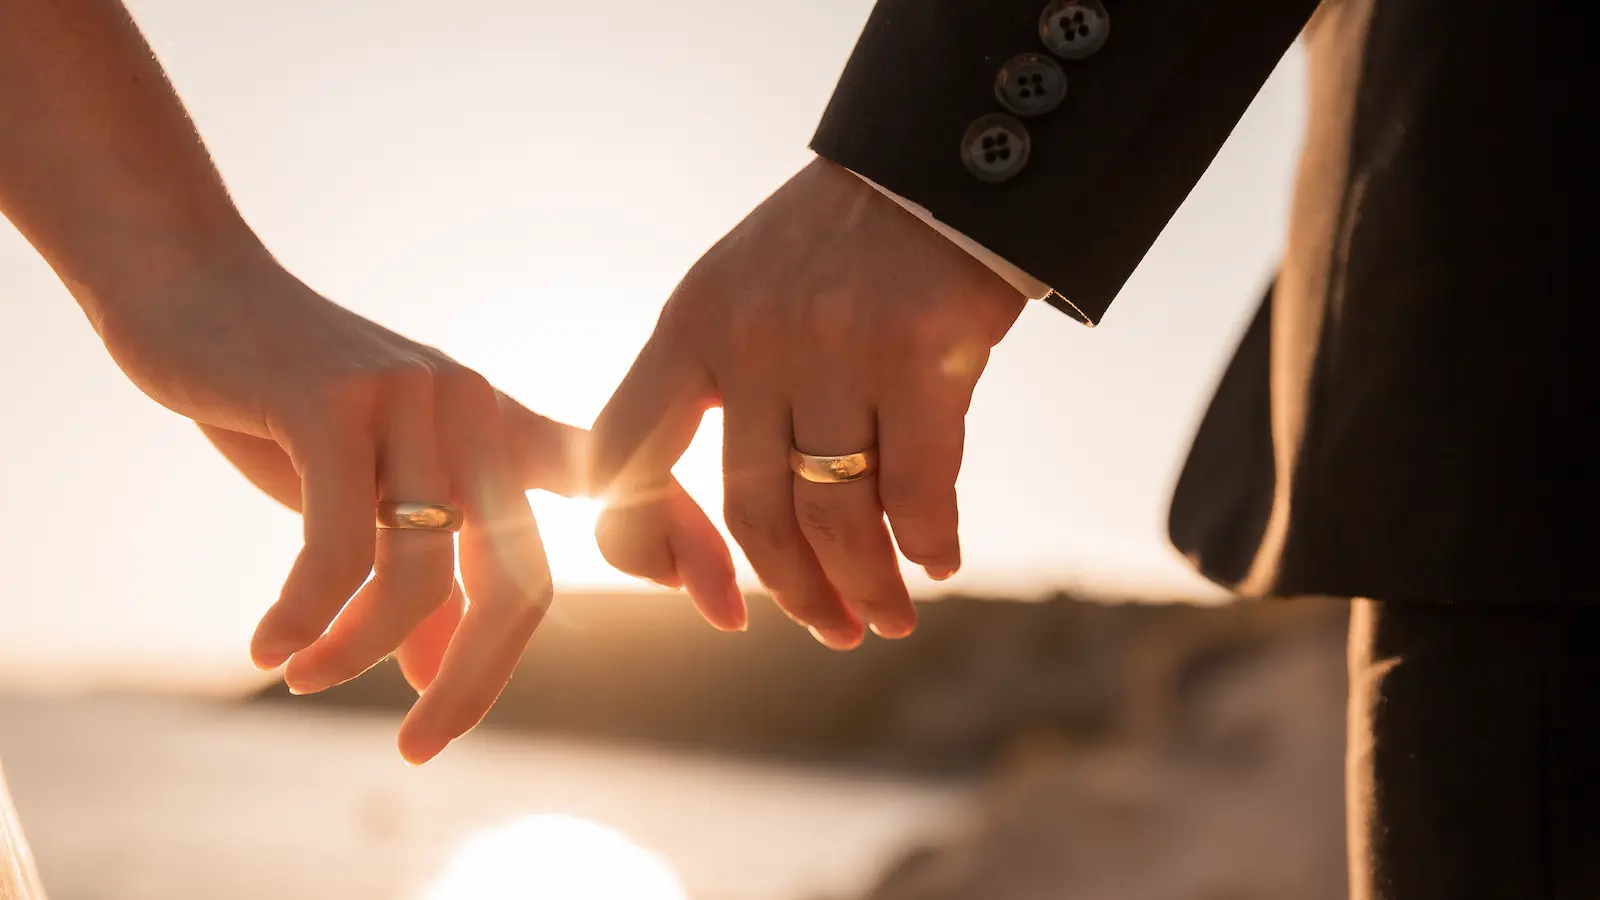
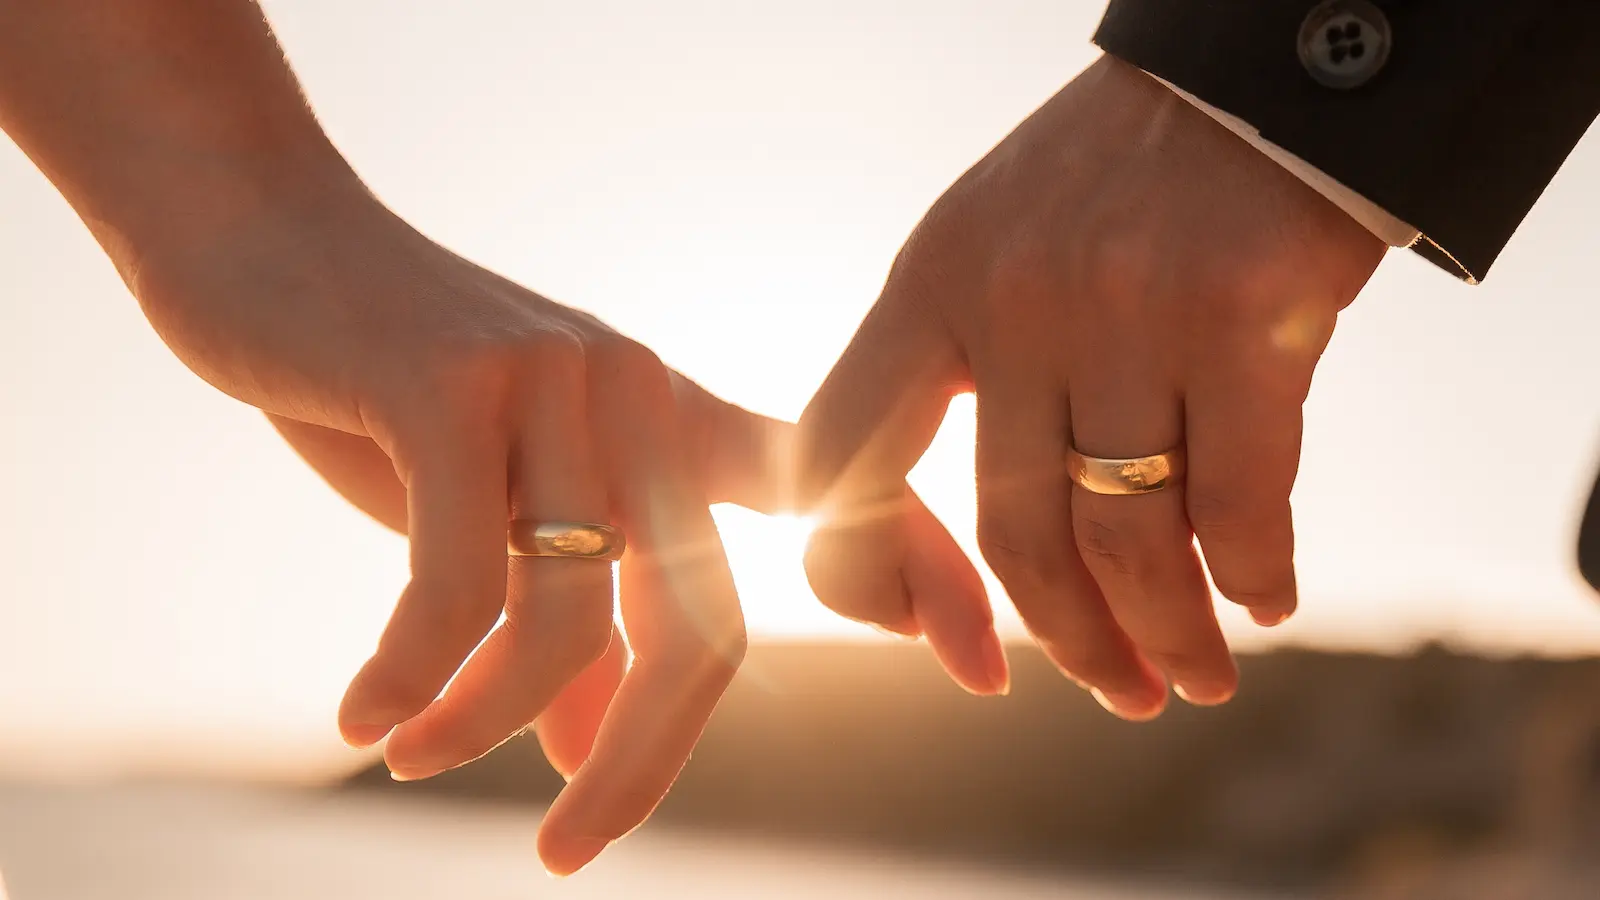
updates: font size, background image, content image

diff --git a/resources/views/v2/meetings-events.blade.php b/resources/views/v2/meetings-events.blade.php
@@ -31,7 +31,7 @@
                 <div class="row mb-3">
                     <div class="col-12">
                         <h1 class="special-heading fs-1 fw-bold text-center pb-2">{!! $headerTitle !!}</h1>
-                        <h2 class="special-heading fs-5 fw-semibold text-center py-3">Elevate Your Corporate Meetings and Events at 2Beach Club</h2>
+                        <h2 class="special-heading fs-3 fw-semibold text-center py-3">Elevate your corporate meetings and events at 2Beach Club</h2>
                     </div>
                 </div>
 
@@ -52,8 +52,15 @@
 
                         <div class="row mt-5 mb-4">
                             <img class="img-fluid w-100 lazy-load-image"
+                            @handheld
+                                src="{{ asset('v2/img/events/private-gatherings/2beach-club-meetings-and-events-corporate-catering-square-1.webp') }}"
+                                data-src="{{ asset('v2/img/events/private-gatherings/2beach-club-meetings-and-events-corporate-catering-square.webp') }}"
+                            @else
                                 src="{{ asset('v2/img/events/private-gatherings/2beach-club-meetings-and-events-corporate-catering-header-preview-1.webp') }}"
-                                data-src="{{ asset('v2/img/events/private-gatherings/2beach-club-meetings-and-events-corporate-catering-header-preview.webp') }}">
+                                data-src="{{ asset('v2/img/events/private-gatherings/2beach-club-meetings-and-events-corporate-catering-header-preview.webp') }}"
+                            @endhandheld
+
+                            >
                         </div>
 
                         <p>
